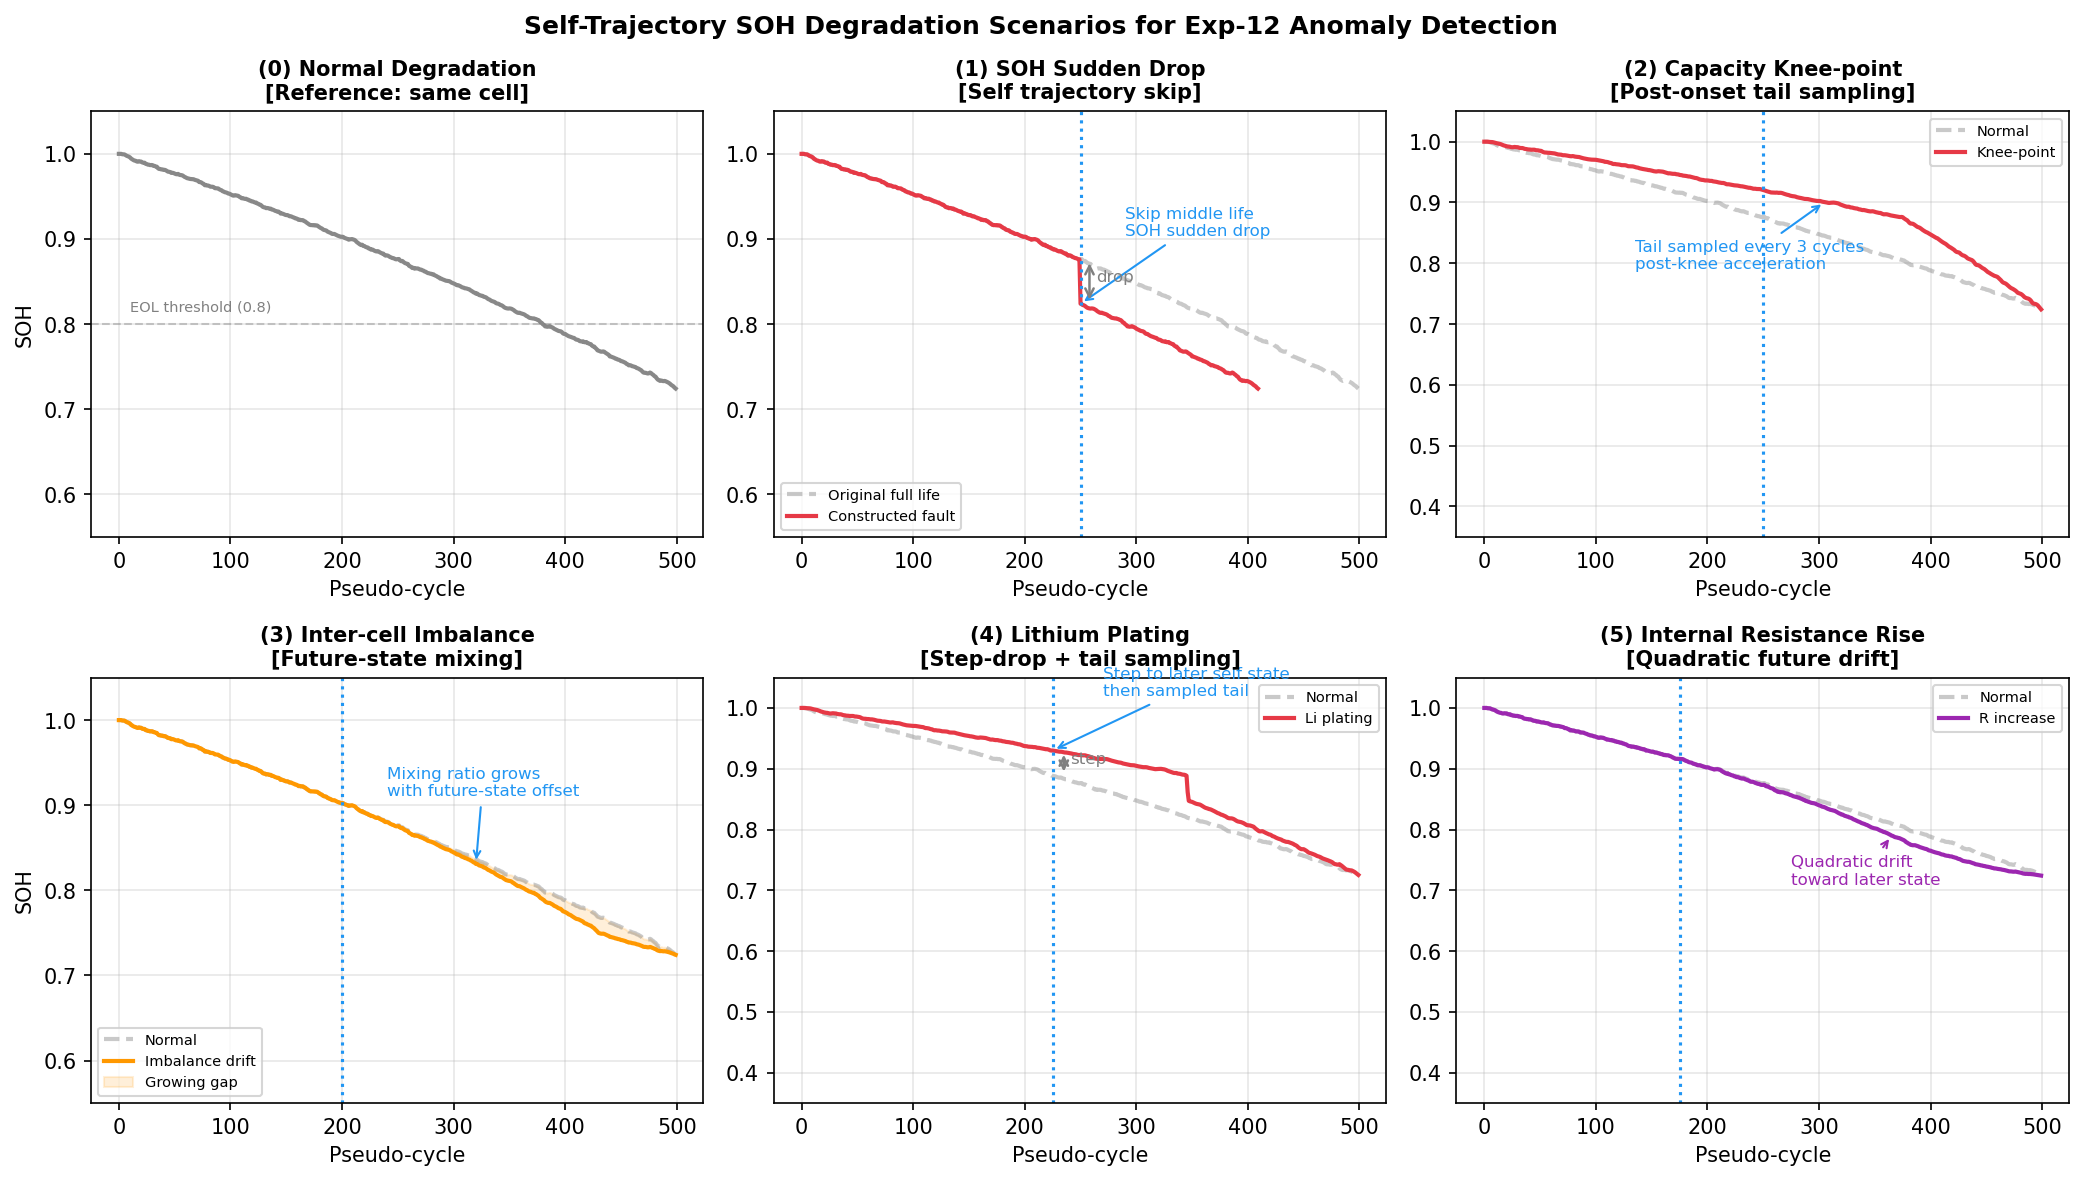
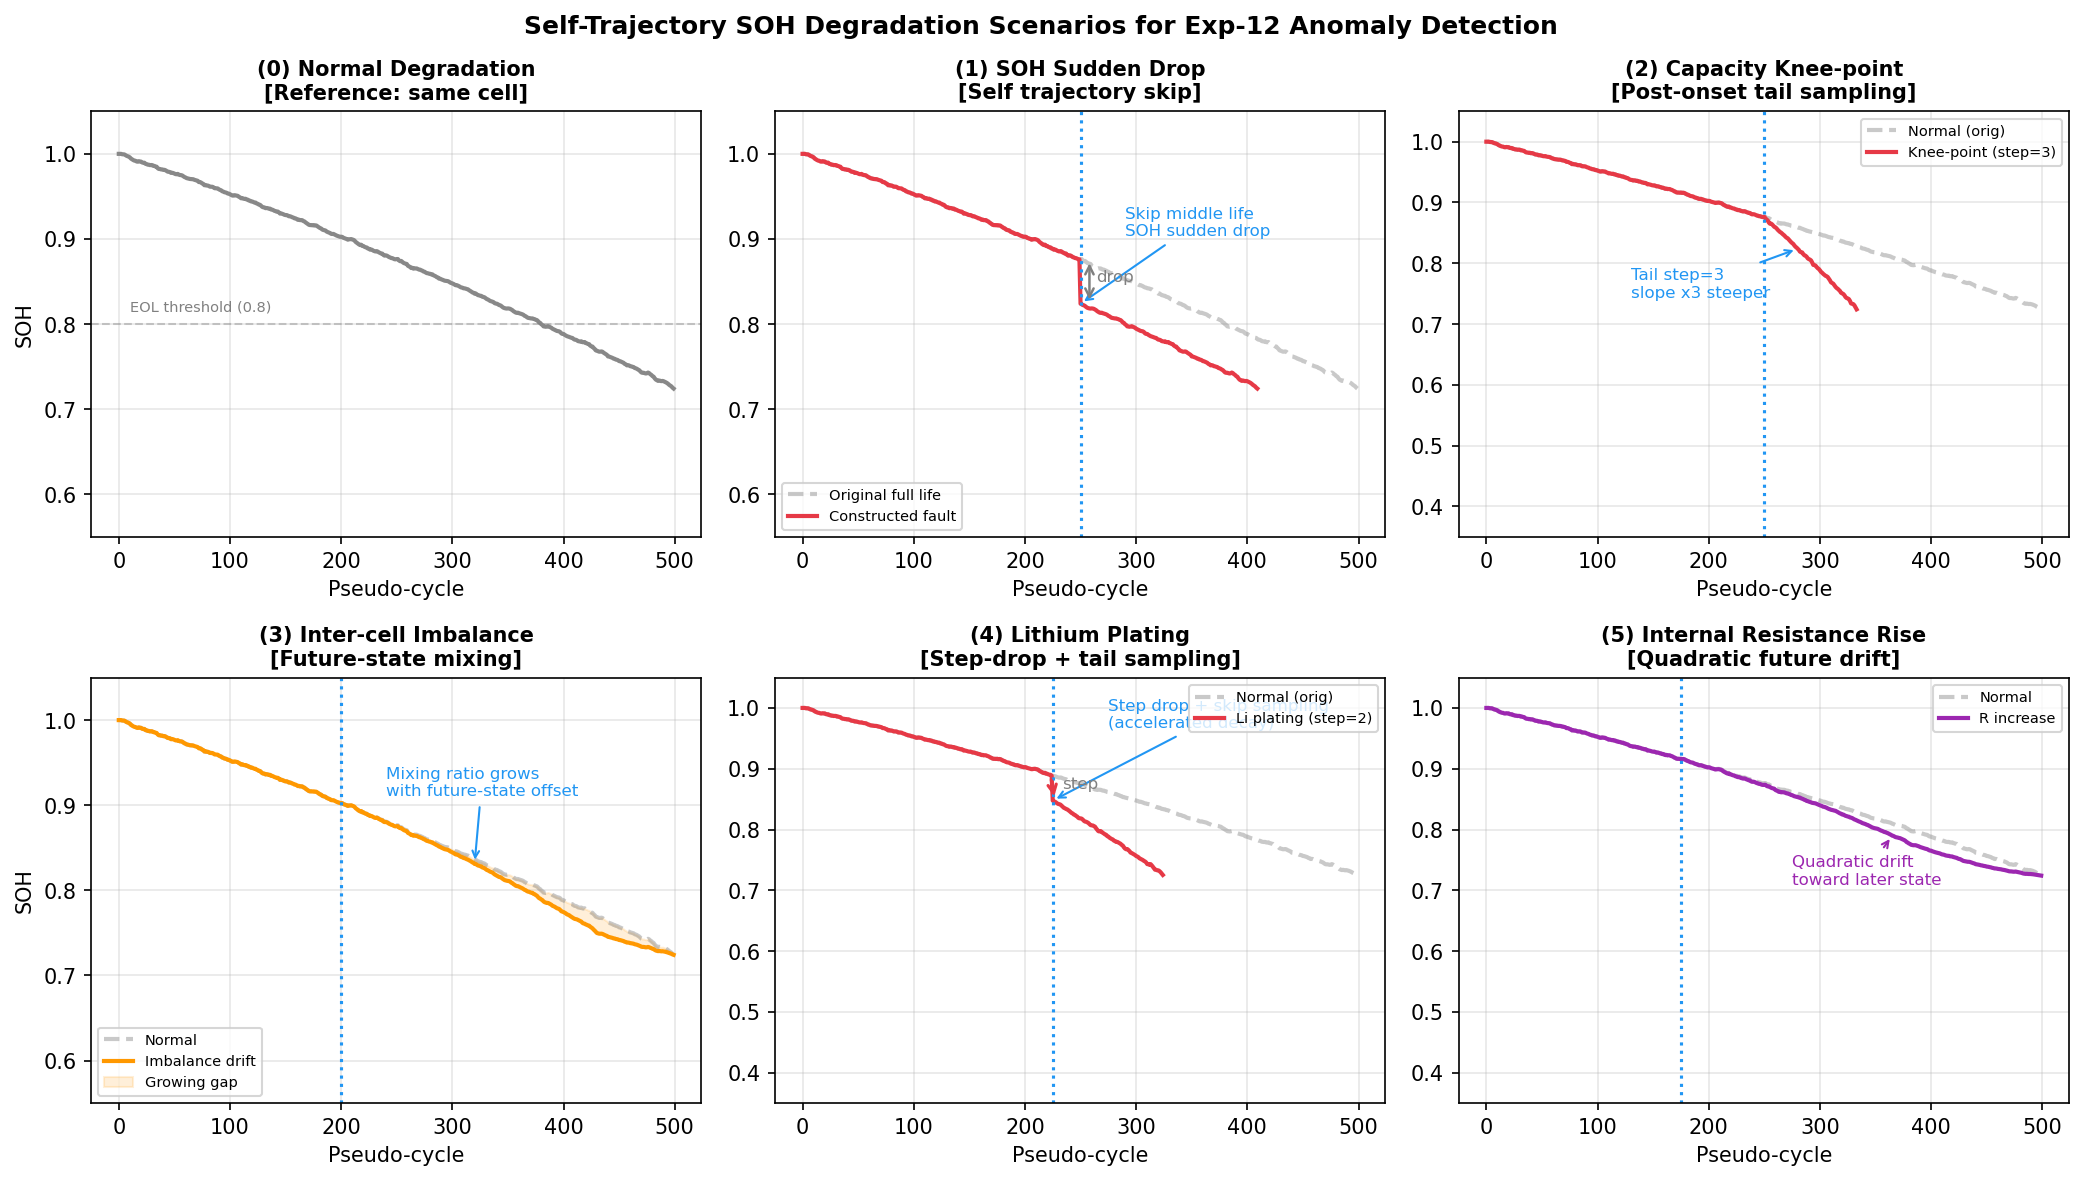
Fix knee_point and li_plating visualization: remove misleading interp_to_length
The previous interp_to_length() stretched the shorter corrupted sequence
back to length N, which incorrectly made the post-fault portion appear
ABOVE the normal curve in panels (2) and (4). This contradicts the
intended physical meaning (faster decay should appear lower/earlier).

Fix: plot corrupted sequences on their actual (shorter) x-axis so the
steeper slope and earlier termination are visually correct.

diff --git a/docs/plot_degradation_scenarios_self_trajectory.py b/docs/plot_degradation_scenarios_self_trajectory.py
@@ -83,19 +83,19 @@ ax.set_title(titles[1], fontsize=10, fontweight='bold')
 style_axis(ax)
 ax.legend(fontsize=7, loc='lower left')
 
-# Panel 2: knee point by sampling the tail with a larger step.
+# Panel 2: knee point - 按真实长度画，不再插值（修复：之前的 interp_to_length 导致末端反而比正常高）
 ax = axes[2]
 knee = int(N * 0.50)
 sample_step = 3
 tail_idx = np.arange(knee, N, sample_step)
-soh_knee_raw = np.concatenate([soh_normal[:knee], soh_normal[tail_idx]])
-soh_knee = interp_to_length(soh_knee_raw, N)
-ax.plot(cycles, soh_normal, color=c_normal, lw=2, ls='--', alpha=0.45, label='Normal')
-ax.plot(cycles, soh_knee, color=c_fault, lw=2, label='Knee-point')
+soh_knee = np.concatenate([soh_normal[:knee], soh_normal[tail_idx]])   # 直接拼接，长度变短
+x_knee = np.arange(len(soh_knee))
+ax.plot(cycles, soh_normal, color=c_normal, lw=2, ls='--', alpha=0.45, label='Normal (orig)')
+ax.plot(x_knee, soh_knee,   color=c_fault,  lw=2, label=f'Knee-point (step={sample_step})')
 ax.axvline(knee, color=c_onset, ls=':', lw=1.5)
-ax.annotate('Tail sampled every 3 cycles\npost-knee acceleration',
-            xy=(knee + 55, soh_knee[knee + 55]),
-            xytext=(knee - 115, soh_knee[knee + 55] - 0.11),
+ax.annotate(f'Tail step={sample_step}\nslope x{sample_step} steeper',
+            xy=(knee + 30, soh_knee[knee + 30]),
+            xytext=(knee - 120, soh_knee[knee + 30] - 0.08),
             arrowprops=dict(arrowstyle='->', color=c_onset), fontsize=8, color=c_onset)
 ax.set_title(titles[2], fontsize=10, fontweight='bold')
 style_axis(ax, ylim=(0.35, 1.05))
@@ -125,25 +125,26 @@ ax.set_title(titles[3], fontsize=10, fontweight='bold')
 style_axis(ax, ylabel=True)
 ax.legend(fontsize=7, loc='lower left')
 
-# Panel 4: lithium plating as a sudden jump followed by accelerated tail sampling.
+# Panel 4: lithium plating - 同样按真实长度画，不再插值
 ax = axes[4]
 plate_at = int(N * 0.45)
 plate_s0 = int(N * 0.60)
 plate_step = 2
 plate_idx = np.arange(plate_s0, N, plate_step)
-soh_plate_raw = np.concatenate([soh_normal[:plate_at], soh_normal[plate_idx]])
-soh_plate = interp_to_length(soh_plate_raw, N)
-ax.plot(cycles, soh_normal, color=c_normal, lw=2, ls='--', alpha=0.45, label='Normal')
-ax.plot(cycles, soh_plate, color=c_fault, lw=2, label='Li plating')
+soh_plate = np.concatenate([soh_normal[:plate_at], soh_normal[plate_idx]])   # 直接拼接，变短
+x_plate = np.arange(len(soh_plate))
+ax.plot(cycles, soh_normal, color=c_normal, lw=2, ls='--', alpha=0.45, label='Normal (orig)')
+ax.plot(x_plate, soh_plate, color=c_fault,  lw=2, label=f'Li plating (step={plate_step})')
 ax.axvline(plate_at, color=c_onset, ls=':', lw=1.5)
-ax.annotate('Step to later self state\nthen sampled tail',
+ax.annotate('Step drop + skip sampling\n(accelerated decay)',
             xy=(plate_at, soh_plate[plate_at]),
-            xytext=(plate_at + 45, soh_plate[plate_at] + 0.09),
+            xytext=(plate_at + 50, soh_plate[plate_at] + 0.12),
             arrowprops=dict(arrowstyle='->', color=c_onset), fontsize=8, color=c_onset)
-ax.annotate('', xy=(plate_at + 10, soh_plate[plate_at]),
-            xytext=(plate_at + 10, soh_normal[plate_at]),
-            arrowprops=dict(arrowstyle='<->', color='gray', lw=1.2))
-ax.text(plate_at + 16, (soh_normal[plate_at] + soh_plate[plate_at]) / 2,
+# 台阶箭头
+ax.annotate('', xy=(plate_at + 2, soh_plate[plate_at]),
+            xytext=(plate_at - 2, soh_normal[plate_at]),
+            arrowprops=dict(arrowstyle='->', color=c_fault, lw=1.5))
+ax.text(plate_at + 8, (soh_normal[plate_at] + soh_plate[plate_at]) / 2,
         'step', fontsize=8, color='gray')
 ax.set_title(titles[4], fontsize=10, fontweight='bold')
 style_axis(ax, ylim=(0.35, 1.05))
